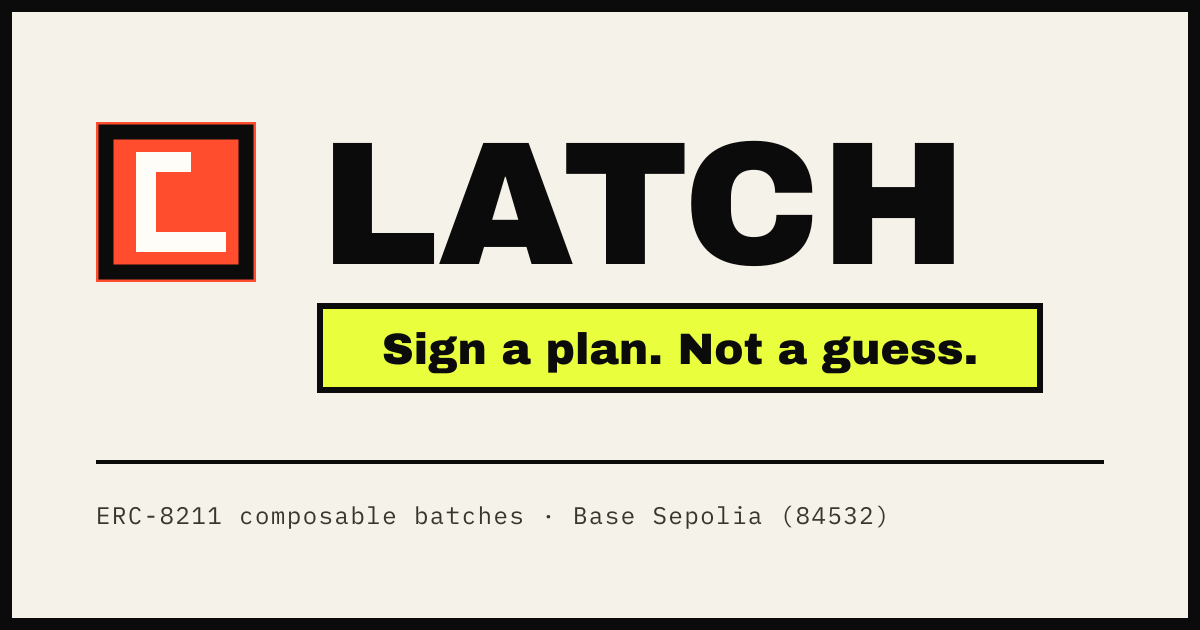
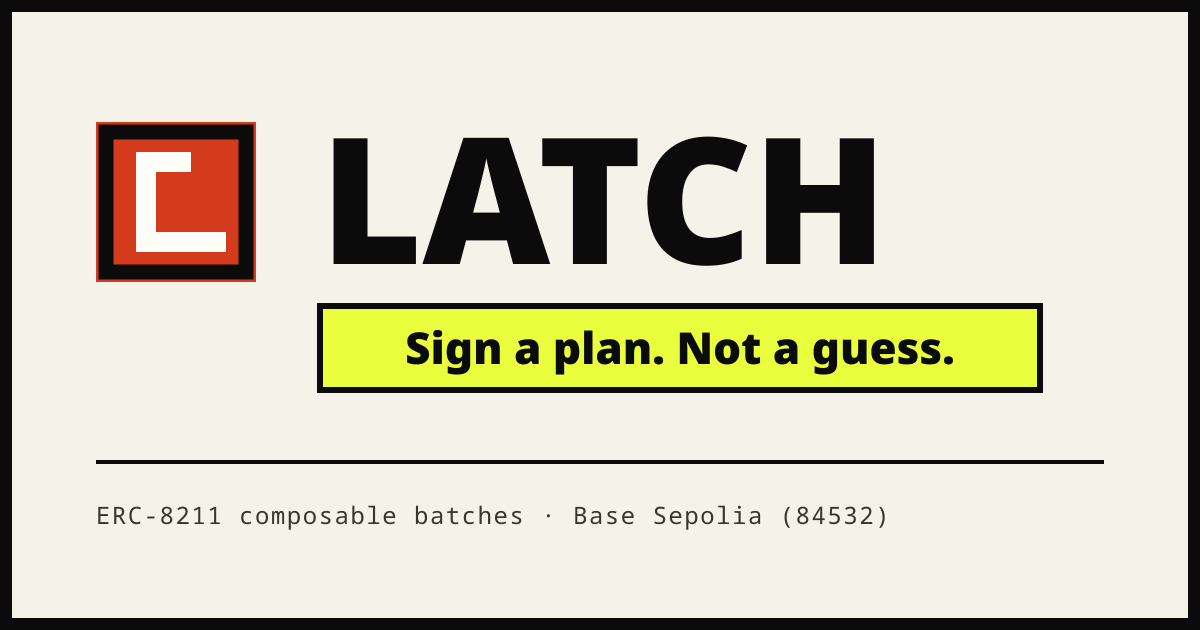
Darken the latch and signal colours until every tone clears 4.5:1
The chip fix in 6c61747 covered one offender. Extending the same scan across every stylesheet
found fourteen: eleven rules that state both a colour and a background, and three more that take
their background from an ancestor. The worst was the 64px step numeral in HowItWorks at 2.95:1
with the old latch — below even the 3:1 threshold WCAG gives large text. The Hero's
"PREDICATE-GATED EXECUTION" eyebrow, the STEP chips, "SHIPS DISABLED", the danger buttons and the
header mark were all white on #ff4d2e at 3.25:1. The gate verdicts were worse than they looked
too: pass, blocked and undecodable sat at 3.53:1 over their own wash, not-checked at 4.29:1 and
dec-kind--assert at 4.46:1, all at 12px uppercase, which counts as normal text.

Four token values move: --c-latch #ff4d2e -> #d43a1c (4.67:1 against white), --c-latch-press
-> #b83316, --c-pass #008f4c -> #00743e (4.98:1 on its wash), --c-block #e5341b -> #c42a10
(4.64:1). White-on-red stays white-on-red, so the mark's character is intact; latch and block
end up closer in hue than before (1.20:1, was 1.31:1) and tokens.css now says how they are told
apart — a solid fill behind white type, a verdict word on a pale wash, never hue alone. The
three failures that had nothing to do with the signal palette were muted text on a tinted
background; --c-ink-muted -> --c-ink-soft on .ui-gate--not-checked, .dec-kind--assert and
.dec-param__tag--opaque takes them to 9.45:1, 9.81:1 and 9.45:1.
[…]

diff --git a/web/test/designSystem.test.ts b/web/test/designSystem.test.ts
@@ -241,3 +241,99 @@ describe("a chip says what it is where it is used", () => {
     expect(report(offenders)).toBe("");
   });
 });
+
+/* --------------------------------------------------- contrast, every other tone */
+
+type CssRule = { readonly selector: string; readonly decls: Record<string, string> };
+
+/** Every rule in a comment-stripped stylesheet, one entry per selector in a selector list. */
+function allRules(css: string): CssRule[] {
+  const out: CssRule[] = [];
+  for (const match of css.matchAll(/([^{}]+)\{([^{}]*)\}/g)) {
+    const decls: Record<string, string> = {};
+    for (const decl of (match[2] ?? "").split(";")) {
+      const pair = /^([\w-]+)\s*:\s*(.+)$/.exec(decl.trim());
+      if (pair?.[1] !== undefined && pair[2] !== undefined) decls[pair[1]] = pair[2];
+    }
+    for (const selector of (match[1] ?? "").split(",")) {
+      const trimmed = selector.trim();
+      if (trimmed !== "") out.push({ selector: trimmed, decls });
+    }
+  }
+  return out;
+}
+
+describe("every tone is readable where it is used", () => {
+  const tokens = colourTokens();
+  const cssFiles = FILES.filter((file) => file.endsWith(".css"));
+
+  const rulesBySelector = new Map<string, CssRule>();
+  for (const file of cssFiles) {
+    for (const entry of allRules(stripComments(readFileSync(file, "utf8")))) {
+      if (!rulesBySelector.has(entry.selector)) rulesBySelector.set(entry.selector, entry);
+    }
+  }
+
+  /**
+   * The chip test above resolves one cascade by hand because it was the failure that shipped. This
+   * is the same check over every stylesheet: any rule that states both a colour and a background is
+   * evaluated as written, which covers buttons, alerts, eyebrows, gate badges, the decoder's own
+   * chips and the header mark without naming them one by one. Rules that leave either half to the
+   * cascade are the second test's job — they are not silently skipped as "can't tell".
+   */
+  it("keeps every rule that states its own pair at 4.5:1 or better", () => {
+    const offenders: string[] = [];
+    let checked = 0;
+    for (const file of cssFiles) {
+      for (const entry of allRules(stripComments(readFileSync(file, "utf8")))) {
+        const colour = resolveColour(entry.decls.color, tokens);
+        const background = resolveColour(entry.decls.background, tokens);
+        if (colour === null || background === null) continue;
+        checked += 1;
+        const ratio = contrast(colour, background);
+        if (ratio < 4.5) {
+          offenders.push(
+            `${relative(file)} ${entry.selector}: ${colour} on ${background} = ${ratio.toFixed(2)}:1 (needs 4.5:1)`,
+          );
+        }
+      }
+    }
+    expect(checked).toBeGreaterThanOrEqual(20);
+    expect(report(offenders)).toBe("");
+  });
+
+  /**
+   * Text that takes its background from an ancestor cannot be checked from its own rule, so each
+   * ancestor is named here rather than guessed. `.app-step__num` is the one row allowed below
+   * 4.5:1: it is a 4rem display numeral, and WCAG large text needs 3:1. Eyebrows are checked
+   * against both surfaces they are rendered on, because they carry only a colour.
+   */
+  it("keeps inherited-background text above its threshold", () => {
+    const CONTEXTS: readonly (readonly [string, string, number, string])[] = [
+      [".ui-eyebrow", "--c-paper", 4.5, "section label on the page"],
+      [".ui-eyebrow", "--c-surface", 4.5, "section label inside a panel"],
+      [".app-step__num", "--c-paper", 3, "64px display numeral on the page"],
+      [".app-notice .ui-mono", "--c-block-wash", 4.5, "notice text on the notice's own band"],
+      [".dec-gate__reason", "--c-surface", 4.5, "decoder reason on the panel body"],
+      [".dec-gate__ref", "--c-surface", 4.5, "decoder reference on the panel body"],
+    ];
+    const offenders: string[] = [];
+    for (const [selector, backgroundToken, minimum, why] of CONTEXTS) {
+      const entry = rulesBySelector.get(selector);
+      const colour = entry === undefined ? null : resolveColour(entry.decls.color, tokens);
+      const background = tokens[backgroundToken];
+      if (colour === null || background === undefined) {
+        offenders.push(`${selector}: could not resolve its colour or \`${backgroundToken}\``);
+        continue;
+      }
+      const ratio = contrast(colour, background);
+      if (ratio < minimum) {
+        offenders.push(
+          `${selector}: ${colour} on ${background} (${why}) = ${ratio.toFixed(2)}:1 (needs ${minimum}:1)`,
+        );
+      }
+    }
+    expect(CONTEXTS.length).toBeGreaterThanOrEqual(6);
+    expect(report(offenders)).toBe("");
+  });
+});

diff --git a/web/src/styles/tokens.css b/web/src/styles/tokens.css
@@ -31,17 +31,22 @@
   --c-ink-muted: #6e695e;
   --c-ink-inverted: #fffdf7;
 
-  /* Brand. Acid is the primary action; latch red is the brand mark and destructive emphasis. */
+  /* Brand. Acid is the primary action; latch red is the brand mark and destructive emphasis.
+     Latch carries white text — eyebrow, panel header, danger button, the mark itself — so it is
+     held at 4.5:1 against --c-ink-inverted rather than at the brighter tint the deck drew. */
   --c-acid: #e9ff3d;
   --c-acid-press: #cfe620;
-  --c-latch: #ff4d2e;
-  --c-latch-press: #e5341b;
+  --c-latch: #d43a1c;
+  --c-latch-press: #b83316;
   --c-sky: #38bdf8; /* continuity with the source deck's accent. Eyebrows and highlights only */
 
   /* Signal. These three map one to one onto a gate verdict. `--c-unchecked` is deliberately grey:
-     a constraint that was never evaluated must never look like one that passed. */
-  --c-pass: #008f4c;
-  --c-block: #e5341b;
+     a constraint that was never evaluated must never look like one that passed. Pass and block are
+     set as text over their own wash at 12px uppercase, so both sit darker than the tint the deck
+     drew. Latch and block end up close in hue; they are told apart by application — a solid fill
+     behind white type, a verdict word on a pale wash — never by hue alone. */
+  --c-pass: #00743e;
+  --c-block: #c42a10;
   --c-unchecked: #8a8578;
 
   /* Derivatives. Tints are for wash backgrounds; never use them for text on paper. */

diff --git a/web/src/features/decoder/decoder.css b/web/src/features/decoder/decoder.css
@@ -102,7 +102,7 @@
 
 .dec-kind.dec-kind--assert {
   background: var(--c-surface-sunken);
-  color: var(--c-ink-muted);
+  color: var(--c-ink-soft);
   font-weight: var(--fw-bold);
 }
 
@@ -255,7 +255,7 @@
 
 .dec-param__tag.dec-param__tag--opaque {
   background: var(--c-unchecked-wash);
-  color: var(--c-ink-muted);
+  color: var(--c-ink-soft);
   border-style: dashed;
 }
 

diff --git a/web/src/components/ui/ui.css b/web/src/components/ui/ui.css
@@ -269,7 +269,7 @@
 
 .ui-gate--not-checked {
   background: var(--c-unchecked-wash);
-  color: var(--c-ink-muted);
+  color: var(--c-ink-soft);
   border-style: dashed;
 }
 

diff --git a/CHECKLIST.md b/CHECKLIST.md
@@ -28,7 +28,7 @@ Tracks document status, phase gates, and readiness. All files ship as `draft`. P
 | Fork fuzzing against the live engine | **Done.** `test/fork/EncodingFuzz.t.sol`, 18 tests at block `47_590_000` |
 | Layer D live smoke tests | **Done.** `test/smoke/LiveSmoke.t.sol`, 13 tests on Base Sepolia |
 | Client builder and decoder | **Done.** `client/`, 80 tests, TypeScript strict |
-| Web client | **Done.** `web/`, 111 tests, `tsc --noEmit` clean, production build |
+| Web client | **Done.** `web/`, 115 tests, `tsc --noEmit` clean, production build |
 | ABI parity with Solidity | **Done.** Committed fixture; three implementations agree byte for byte |
 | `MAX_ENTRIES` and "decoder renders every constraint" | **Done.** The two `docs/09` invariants that had no code behind them |
 | V-06, DEX addresses | **Closed.** SwapRouter02 and factory cross-consistent, WETH/USDC pools have liquidity at all three fee tiers |

diff --git a/docs/09-testing-strategy.md b/docs/09-testing-strategy.md
@@ -346,6 +346,7 @@ illegal moves, and the ten honesty rules from
 | Chain clients | The write client has no rotating transport and never broadcasts; the two broadcast sites are the injected wallet |
 | Pinned addresses | No address literal exists in `src/` outside `core/addresses.ts` |
 | Intent signing | The EIP-712 domain binds this app, this chain and this account; a refusal produces a sentence, not a code |
+| Design system | No raw colour outside `tokens.css`, no radius but 0, no shadow but a token; every tone is 4.5:1 or better against the background it actually inherits, from an explicit list for the ones an ancestor supplies |
 
 Four gates run before a change leaves `web/`: `npm run typecheck`, `npm test`, `npm run build`, and
 `cd ../client && npm test`. The last one is a guard: the frontend must not touch `client/`.

diff --git a/docs/identity.md b/docs/identity.md
@@ -113,7 +113,7 @@ It sits on a latch-red field inside a black keyline, with a cream letterform.
 | Property | Value |
 |---|---|
 | Canvas | 64 x 64 |
-| Field | `#FF4D2E`, `--c-latch`, full bleed |
+| Field | `#D43A1C`, `--c-latch`, full bleed |
 | Keyline | `#0B0B0B`, `--c-ink`, 6 units, inset 4 |
 | Letterform | `#FFFDF7`, cream, `--c-surface`, stroke 8, square caps, mitred joins |
 | Glyph path | `M34 16 H20 V48 H48` — vertical stroke, short top arm, long foot |
